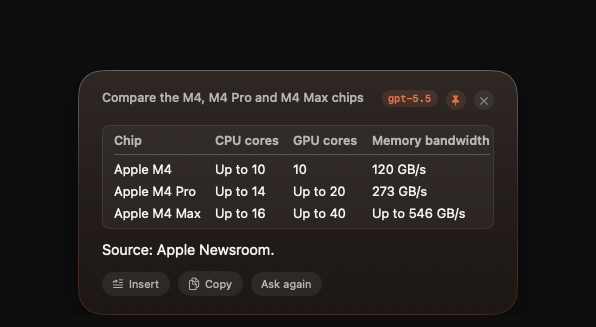
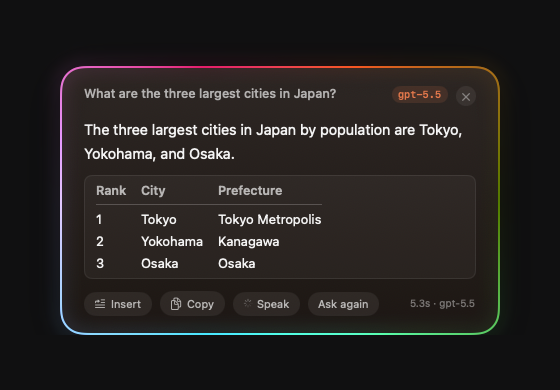
README + site: listening-glow demo screenshots, voice-speed copy
- New screenshots captured from the running app: the dictation pill and the
  Answers pill mid-listen with the circling rainbow glow, and the Answers
  card (glow ring, rendered table) replacing the old ask-pill.png.
- README: glow feature copy in Why Yappy / Answers / Considered details,
  voice speed + natural-reading notes, test count refreshed.
- Site: the hero pill and the closing pill mock now wear the v2.9 listening
  glow (conic gradient under a looping hue-rotate, same trick as the app);
  copy updated for the glow, table prosody, and voice speed.

diff --git a/docs/index.html b/docs/index.html
@@ -261,9 +261,31 @@ a { color: inherit; text-decoration: none; }
   display: inline-flex; align-items: center; gap: 14px;
   padding: 13px 22px; border-radius: var(--r-pill);
   background: rgba(8,8,8,0.9); backdrop-filter: blur(14px); -webkit-backdrop-filter: blur(14px);
-  border: 1px solid rgba(255,92,26,0.35);
-  box-shadow: 0 18px 50px rgba(0,0,0,0.65), 0 0 44px rgba(255,92,26,0.25);
+  border: 1px solid transparent;
+  box-shadow: 0 18px 50px rgba(0,0,0,0.65);
 }
+/* The v2.9 listening glow: a rainbow ring that slowly circles the pill while
+   it listens. A full-spectrum gradient under a looping hue-rotate reads as
+   uniform circling — the same trick the app itself uses. */
+.pill::before, .final-card .pill-static::before {
+  content: ''; position: absolute; inset: -2px; border-radius: inherit;
+  padding: 2px; pointer-events: none;
+  background: conic-gradient(#ff5c5c, #ffb347, #f7f75a, #6ef08c, #5ad7ff, #b07bff, #ff6bd6, #ff5c5c);
+  -webkit-mask: linear-gradient(#000 0 0) content-box, linear-gradient(#000 0 0);
+  -webkit-mask-composite: xor; mask: linear-gradient(#000 0 0) content-box, linear-gradient(#000 0 0);
+  mask-composite: exclude;
+  animation: glow-circle 8s linear infinite;
+}
+.pill::after, .final-card .pill-static::after {
+  content: ''; position: absolute; inset: -4px; border-radius: inherit;
+  pointer-events: none; z-index: -1;
+  background: conic-gradient(#ff5c5c, #ffb347, #f7f75a, #6ef08c, #5ad7ff, #b07bff, #ff6bd6, #ff5c5c);
+  filter: blur(12px); opacity: 0.4;
+  animation: glow-circle 8s linear infinite;
+}
+@keyframes glow-circle { to { filter: hue-rotate(360deg); } }
+.pill::after { animation: glow-circle-halo 8s linear infinite; }
+@keyframes glow-circle-halo { to { filter: blur(12px) hue-rotate(360deg); } }
 .pill .wave { display: flex; align-items: center; gap: 3px; height: 26px; }
 .pill .wave i { width: 3px; border-radius: 3px; background: var(--orange); height: 40%; animation: wave 1.3s ease-in-out infinite; }
 .pill .label { font-family: var(--mono); font-size: 0.72rem; letter-spacing: 0.14em; text-transform: uppercase; color: var(--grey); }
@@ -476,10 +498,12 @@ a { color: inherit; text-decoration: none; }
 .final-card p { color: #3d1d05; font-size: 1.12rem; margin: 1.2rem auto 2.3rem; max-width: 46ch; }
 .final-cta { display: flex; gap: 0.9rem; justify-content: center; flex-wrap: wrap; }
 .final-card .pill-static {
+  position: relative; z-index: 0;
   display: inline-flex; align-items: center; gap: 12px; margin-bottom: 2.4rem;
   padding: 10px 18px; border-radius: var(--r-pill);
   background: rgba(10,10,10,0.9); border: 1px solid rgba(0,0,0,0.4);
 }
+.final-card .pill-static::after { animation: glow-circle-halo 8s linear infinite; }
 .final-card .pill-static .wave { display: flex; gap: 3px; height: 22px; align-items: center; }
 .final-card .pill-static .wave i { width: 3px; border-radius: 3px; background: var(--orange); animation: wave 1.3s ease-in-out infinite; }
 .final-card .pill-static .label { font-family: var(--mono); font-size: 0.7rem; letter-spacing: 0.14em; text-transform: uppercase; color: rgba(250,250,250,0.75); }
@@ -628,7 +652,7 @@ footer { border-top: 1px solid var(--line-2); padding: clamp(3rem, 6vw, 4.5rem) 
           <span class="num">01</span>
           <div class="si"><svg viewBox="0 0 24 24" fill="none" stroke="currentColor" stroke-width="1.8" stroke-linecap="round" stroke-linejoin="round"><path d="M9 6.5A2.5 2.5 0 1 0 6.5 9H9V6.5Z"/><path d="M15 6.5A2.5 2.5 0 1 1 17.5 9H15V6.5Z"/><path d="M9 17.5A2.5 2.5 0 1 1 6.5 15H9v2.5Z"/><path d="M15 17.5a2.5 2.5 0 1 0 2.5-2.5H15v2.5Z"/><rect x="9" y="9" width="6" height="6" rx="1"/></svg></div>
           <h3>Hold</h3>
-          <p>Press and hold <span class="key">Right Command</span> anywhere on your Mac. A recording pill fades in.</p>
+          <p>Press and hold <span class="key">Right Command</span> anywhere on your Mac. A recording pill fades in, ringed by a slowly circling glow while it listens: rainbow, white, or orange, your pick.</p>
         </div>
         <div class="step prep" data-reveal>
           <span class="num">02</span>
@@ -678,7 +702,7 @@ footer { border-top: 1px solid var(--line-2); padding: clamp(3rem, 6vw, 4.5rem) 
         <div class="ask-copy prep" data-reveal>
           <span class="eyebrow"><span class="dot"></span>Optional · off by default</span>
           <h2 style="margin-top:1rem;">Sometimes you want an answer, not a transcript.</h2>
-          <p>Dictation types what you say. <b>Answers researches what you ask.</b> Hold <b>Fn</b>, say your question out loud, and the answer streams into a floating card, researched with live web search and shown with the sources it cited. It is the one feature that reaches the cloud, and it runs entirely on an AI account you already have.</p>
+          <p>Dictation types what you say. <b>Answers researches what you ask.</b> Hold <b>Fn</b>, say your question out loud, and the answer streams into a floating card, researched with live web search and shown with the sources it cited. The same listening glow rings the card from question to answer. It is the one feature that reaches the cloud, and it runs entirely on an AI account you already have.</p>
           <ul class="ask-flow">
             <li><span class="k">Hold Fn</span><span>Ask out loud. <span class="said">"Compare the M4 chips in a table."</span></span></li>
             <li><span class="k">Answer</span><span>It appears with <b>real tables, code, and clickable source chips</b>.</span></li>
@@ -695,7 +719,7 @@ footer { border-top: 1px solid var(--line-2); padding: clamp(3rem, 6vw, 4.5rem) 
         </div>
         <div class="ask-visual prep" data-reveal>
           <div class="ask-card-frame">
-            <img src="assets/ask-pill.png" alt="The Answers card responding to a spoken question with a rendered comparison table and a cited source domain">
+            <img src="assets/ask-pill.png" alt="The Answers card responding to a spoken question with a rendered table, ringed by the listening glow">
           </div>
           <div class="ask-fn" aria-hidden="true">
             <span class="key">Fn</span>
@@ -733,7 +757,7 @@ footer { border-top: 1px solid var(--line-2); padding: clamp(3rem, 6vw, 4.5rem) 
         <div class="ra-copy prep" data-reveal>
           <span class="eyebrow"><span class="dot"></span>New · reads aloud, 100% on your Mac</span>
           <h3>Then it reads the answer back to you.</h3>
-          <p>Switch on read-aloud and a natural voice reads the answer as it arrives, or just say <span class="said">"read that"</span>. It says years, dates, and units the way you would, in eight voices across American and British accents. This part never reaches the cloud, even though Answers does: the voice runs entirely on your Mac, so the words you hear never leave it.</p>
+          <p>Switch on read-aloud and a natural voice reads the answer as it arrives, or just say <span class="said">"read that"</span>. It says years, dates, temperatures, and abbreviations the way you would, summarizes tables into sentences instead of reciting rows, and speaks in eight voices across American and British accents, at the pace you pick, from relaxed to quick. This part never reaches the cloud, even though Answers does: the voice runs entirely on your Mac, so the words you hear never leave it.</p>
           <div class="ra-chips">
             <span class="ra-chip">Eight voices</span>
             <span class="ra-chip">American and British</span>

diff --git a/README.md b/README.md
@@ -29,7 +29,11 @@ No API keys. No cloud. No subscriptions. Dictation never leaves the device.</p>
 
 Most dictation apps stream your microphone to a server. Yappy doesn't. It runs NVIDIA's **Parakeet** speech model directly on the **Apple Neural Engine** (via [FluidAudio](https://github.com/FluidInference/FluidAudio)) — so transcription is fast, private, and works on a plane with the Wi‑Fi off.
 
-It stays out of your way until you need it: a single global hotkey, a small recording pill that fades in only while you talk, and text that lands wherever your cursor already is — your editor, Slack, the browser, a terminal, anywhere.
+It stays out of your way until you need it: a single global hotkey, a small recording pill that fades in only while you talk, and text that lands wherever your cursor already is — your editor, Slack, the browser, a terminal, anywhere. While you hold the key, a soft glow circles the pill so you always know Yappy is listening — rainbow by default, or a calm white or orange if you prefer.
+
+<div align="center">
+<img src="Documentation/assets/listening-glow.png" alt="The recording pill while listening, ringed by the slowly circling rainbow glow" width="460">
+</div>
 
 <div align="center">
 <img src="Documentation/assets/how-it-works.png" alt="Hold the hotkey, speak naturally, release — text lands at your cursor" width="820">
@@ -61,10 +65,16 @@ Everything is configurable in one place — hotkey, sounds, number formatting, n
 
 ## Answers — hold Fn, get an answer
 
-Dictation types what you say. **Answers researches what you ask.** Hold the **Fn (Globe)** key, say the question out loud — *"what were the top AI headlines this week?"*, *"compare the M4 chips in a table"* — and release. The answer streams into a floating dark-glass card at the bottom of your screen: live research steps while the model searches the web, then the answer itself, with the domains it cited shown as clickable **source chips** and a badge naming the model that answered. Tables render as real tables, code as code boxes, lists as lists, images load on click — and a wide table widens the card to fit. The card auto-dismisses on its own (longer answers linger longer); **hover to pause it, click to pin it.**
+Dictation types what you say. **Answers researches what you ask.** Hold the **Fn (Globe)** key, say the question out loud — *"what were the top AI headlines this week?"*, *"compare the M4 chips in a table"* — and release. The same listening glow rings the Answers pill while you speak, and stays on the card while it researches and answers — one glance tells you the mic is live.
 
 <div align="center">
-<img src="Documentation/assets/ask-pill.png" alt="The Answers card answering a spoken question with a rendered comparison table and a cited source" width="520">
+<img src="Documentation/assets/ask-listening-glow.png" alt="The Answers pill listening to a spoken question, ringed by the circling glow" width="440">
+</div>
+
+The answer streams into a floating dark-glass card at the bottom of your screen: live research steps while the model searches the web, then the answer itself, with the domains it cited shown as clickable **source chips** and a badge naming the model that answered. Tables render as real tables, code as code boxes, lists as lists, images load on click — and a wide table widens the card to fit. The card auto-dismisses on its own (longer answers linger longer); **hover to pause it, click to pin it.**
+
+<div align="center">
+<img src="Documentation/assets/ask-pill.png" alt="The Answers card answering a spoken question with a rendered table, ringed by the glow" width="520">
 </div>
 
 It goes further than a one-shot answer:
@@ -73,7 +83,7 @@ It goes further than a one-shot answer:
 - **Land the answer where you're working.** Hit **Insert**, or just say *"insert that"*, and the answer drops in as clean plain text at the cursor of the app you were in (tables become tab-separated). The card never stole your focus, so it goes exactly where you left off. **Copy** and **Ask again** are a click away too.
 - **Drive the card by voice.** Whole-utterance commands only, so a real question is never mistaken for one: *"copy that"*, *"insert that"*, *"pin that"*, *"dismiss"*, *"try again"*.
 - **Ask for more thinking when it matters.** Prefix a question with *"think harder, …"* and Yappy routes that one question at higher reasoning effort.
-- **Hear the answer, hands-free.** Turn on *Read answers aloud* and a **Speak** button appears on the card (or just say *"read that"*); *"stop talking"* stops it. This one is **100% local** — a neural voice runs entirely on your Mac, so the answer text never leaves it. Optional and off by default: it lights up green once the voice engine is installed (`brew install espeak-ng && pip3 install mlx-audio "misaki[en]" && python3 -m spacy download en_core_web_sm`, Apple Silicon), then downloads a small voice model on first use. Pick from eight American and British voices, or have every answer read automatically.
+- **Hear the answer, hands-free.** Turn on *Read answers aloud* and a **Speak** button appears on the card (or just say *"read that"*); *"stop talking"* stops it. This one is **100% local** — a neural voice runs entirely on your Mac, so the answer text never leaves it. Optional and off by default: it lights up green once the voice engine is installed (`brew install espeak-ng && pip3 install mlx-audio "misaki[en]" && python3 -m spacy download en_core_web_sm`, Apple Silicon), then downloads a small voice model on first use. Pick from eight American and British voices **at the pace you like** — Relaxed, Normal, Brisk, or Quick — or have every answer read automatically. It reads like a person, not a parser: dates, times, temperatures, and abbreviations are spoken the way you'd say them, tables are summarized into sentences instead of recited row by row, and markdown never leaks into the audio.
 
 A few honest facts about how it works:
 
@@ -139,7 +149,7 @@ Pick your answering model — **Codex (gpt-5.5)** or **Grok** (Composer 2.5 Fast
 
 **Polished hotkeys** — hold Right ⌘, double-tap Right ⌘, hold Right ⌥, or hold Right ⌃ for dictation; hold **Fn** for Answers (when enabled). A debounced state machine ignores key repeats and accidental taps, so it never fires when you don't mean it. Press **Esc** to cancel while recording — or while Yappy is still transcribing, to stop the text *before* it lands.
 
-**Considered details** — a molten-glass recording pill whose glow breathes with your voice and shifts into a quiet *Polishing* state while AI cleanup runs, a menu bar icon that animates while recording, and subtle custom start/stop/done sounds — including a distinct cue when something goes wrong, so failure never sounds like success.
+**Considered details** — a molten-glass recording pill whose glow breathes with your voice and shifts into a quiet *Polishing* state while AI cleanup runs, a **listening glow** that slowly circles the pill while the key is held (rainbow, white, or orange — pick in Settings, and it carries through to the Answers card), a menu bar icon that animates while recording, and subtle custom start/stop/done sounds — including a distinct cue when something goes wrong, so failure never sounds like success.
 
 **Private by design** — audio is transcribed on-device and never written to disk; no telemetry, no account. After the one-time model download, dictation runs fully offline — nothing you dictate leaves your Mac. The only exception is opt-in and clearly labeled: the **Answers** feature, off by default, which sends your transcribed question (never the audio) to the model account you connect, and runs that model read-only — it can research and answer, but a tool or command event kills the turn. A privacy panel on the home screen reflects this state at a glance.
 
@@ -251,7 +261,7 @@ Yappy's two capabilities have different privacy stories, and we'd rather you kno
 xcodebuild -project Yappy.xcodeproj -scheme Yappy test
 ```
 
-599 tests cover the hotkey state machine, settings persistence and migration, the transcript pipeline (numbers, lists, spoken punctuation, cross-stage interactions), the AI-cleanup accept/reject guard policy (never answer, never invent, never drop), deterministic tone transforms, the custom dictionary with speech-model term boosting and correction mining, the notes store, history-based shortcut suggestions, voice-command parsing, adaptive per-app mode resolution, dictation history and stats, voice-shortcut expansion, app-context classification, and the Answers stack (run state machine, Fn-hold state machine, controller orchestration driven through injected fakes — follow-ups, insert-at-cursor, and card voice commands, Codex/Grok wire-format parsers, block markdown rendering, and answer history persistence).
+Over 800 tests cover the hotkey state machine, settings persistence and migration, the transcript pipeline (numbers, lists, spoken punctuation, cross-stage interactions), the AI-cleanup accept/reject guard policy (never answer, never invent, never drop), deterministic tone transforms, the custom dictionary with speech-model term boosting and correction mining, the notes store, history-based shortcut suggestions, voice-command parsing, adaptive per-app mode resolution, dictation history and stats, voice-shortcut expansion, app-context classification, and the Answers stack (run state machine, Fn-hold state machine, controller orchestration driven through injected fakes — follow-ups, insert-at-cursor, and card voice commands, Codex/Grok wire-format parsers, block markdown rendering, and answer history persistence).
 
 ## Built with
 
